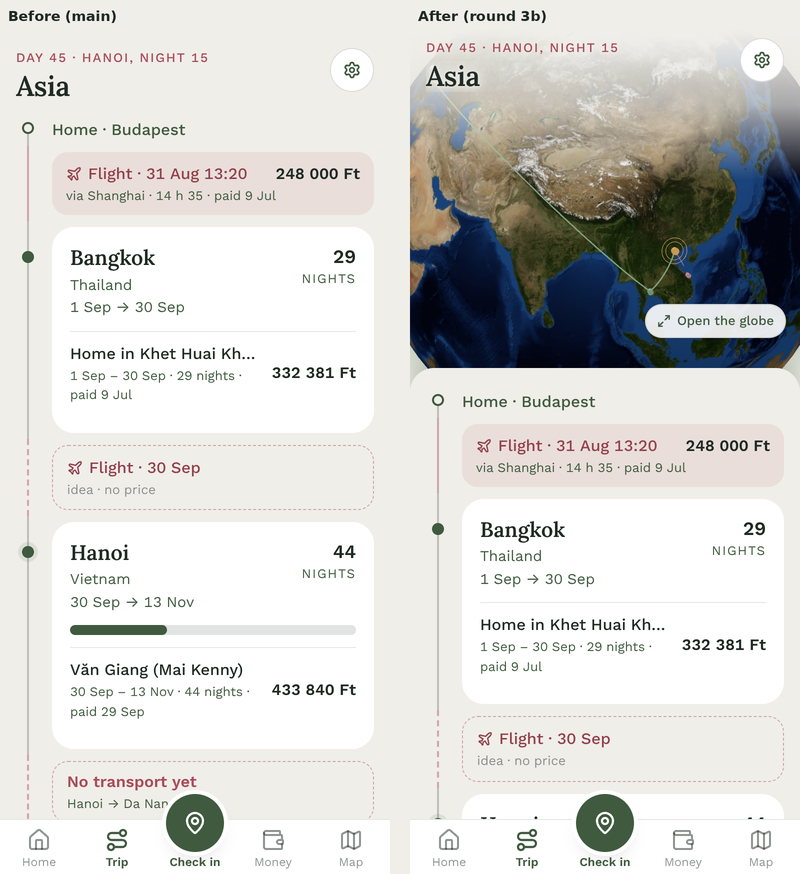
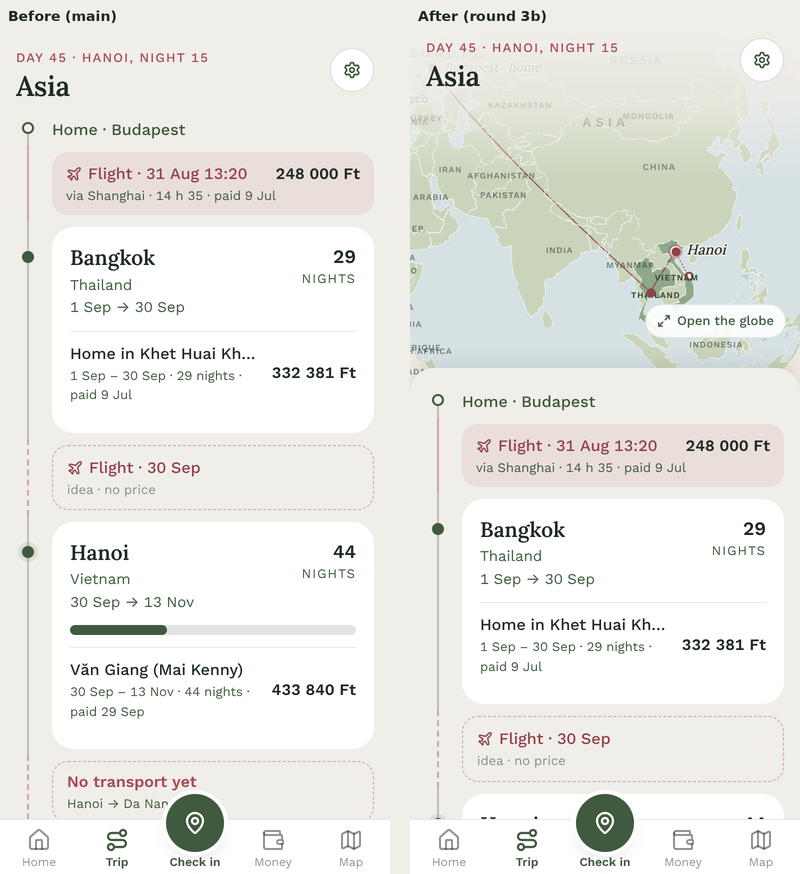
Round 3b: a bolder route; the notes for the globe's look
Claude-Session: https://claude.ai/code/session_01Y4cNLRyg5RPwirJJGrzXfV

Changed region(s): [[0.5, 0.0618, 1.0, 0.4325]]

diff --git a/product/src/components/trips/TripGlobe.tsx b/product/src/components/trips/TripGlobe.tsx
@@ -310,7 +310,7 @@ export default function TripGlobe({ route, transport, todayIso, interactive, pau
     l.pathsData([]).pathPoints('pts').pathPointLat((p) => (p as number[])[1]).pathPointLng((p) => (p as number[])[0])
       .pathPointAlt((d) => (path(d).kind === 'leg' ? 0.011 : 0.0055))
       .pathColor((d) => { const p = path(d); return p.kind === 'coast' ? t().shore : p.leg.upcoming ? t().route + 'd9' : t().route })
-      .pathStroke((d) => { const p = path(d); return p.kind === 'coast' ? 0.8 : p.leg.ground ? 1.3 : 1.0 })
+      .pathStroke((d) => { const p = path(d); return p.kind === 'coast' ? 0.8 : p.leg.ground ? 1.7 : 1.4 })
       .pathDashLength((d) => { const p = path(d); return p.kind === 'coast' ? 1 : p.leg.ground ? 0.012 : p.leg.upcoming ? 0.07 : 1 })
       .pathDashGap((d) => { const p = path(d); return p.kind === 'coast' ? 0 : p.leg.ground ? 0.045 : p.leg.upcoming ? 0.055 : 0 })
       .pathResolution(1).pathTransitionDuration(0)

diff --git a/docs/NOTES.md b/docs/NOTES.md
@@ -22,12 +22,19 @@ Patrik's 10 Oct decision A (#166, #63), on the web as the phone's `GlobeScaffold
   demand"). Tapping a stop on the open globe folds the globe and scrolls to the stop's card.
 - **Once the timeline covers the globe,** a slim bar with the journey's name and a "Globe"
   button takes its place, and the globe stops drawing (`pauseAnimation`).
-- **The globe itself** is new and lean: `components/trips/TripGlobe.tsx` (globe.gl), home and the
-  in-plan stops the catalogue can place, a leg between each pair, the stop you are in ringed;
-  travelled hunter, upcoming dashed mauve, now amber, home white (FollowGlobe's language). The
-  camera rules (`lib/map/journeyCamera.ts`: the journey's middle through the sphere, the
-  height from its spread, a leg's flight time, the card's words) are tested. Night shading:
-  the day texture, as FollowGlobe; the phone's terminator is not drawn.
+- **The globe itself** is new and lean, `components/trips/TripGlobe.tsx` (globe.gl, the web's
+  engine), drawn as the phone's GlobeView draws it (Petra, 14 Oct, with the phone's pictures:
+  the first cut had reused the Map page's satellite picture): a pale sea, sage land from the
+  country shapes (`/vendor/countries.geojson`) with a white rim along the coasts and faint
+  borders, your journey's countries a shade darker, continent names far out and country names
+  closer in (sized by how big the country is on screen, your journey's first), the route in
+  `--ac2Deep` along the great circle (dashed where still ahead, dotted on the ground), the stops
+  as dots with their names in the serif italic (the stop you are in ringed and breathing), home
+  a small square, a warm rim around the globe; light and dark from the phone's `Tokens.swift`
+  (`lib/map/globeTheme.ts`). The camera rules and the names' rules are tested
+  (`lib/map/journeyCamera.ts`, `lib/map/globeNames.ts`). Not drawn: the night side, the seas'
+  and regions' names (the phone has them in `globe-names.json`), the plane of the replay, the
+  canvas halo under the route (as a tube it swallowed the line).
 - **The Map tab is empty** (Patrik, 12 Oct, decision 2): "Nothing here yet", and one line,
   "The globe is on Trip now." The planner globe with its catalogue pins, the people layer (#9),
   the hazards and the country panels stays in `MapClient.tsx`, reachable in development at
@@ -40,8 +47,8 @@ Not on the web: the onboarding and Arrived replays that play by themselves (the 
 GlobePlay), haptics, and the follower's Trip with the globe (`/journeys/[trip]` keeps
 FollowGlobe). Pictures: `docs/web-ios-redesign/round3b-*.png`.
 
-iOS: nothing new; the web now reads as `TripGlobe.swift` does. One difference to know: the web's
-Replay button leaves the globe open and does not close it at the end, as the phone's does too.
+iOS: nothing new; the web now reads as `TripGlobe.swift` and `GlobeView.swift` do. The seas' names
+and the night side stay the phone's alone for now.
 
 ### LIVE — round 3a of the redesign, Trip's timeline as on the phone (Petra, 14 Oct; #192)
 

diff --git a/docs/WEB-IOS-REDESIGN.md b/docs/WEB-IOS-REDESIGN.md
@@ -180,8 +180,9 @@ The six questions this file first ended with, and the answers.
 
 - 14 Oct: round 3b built, the globe on top of Trip as the phone's GlobeScaffold (the header over
   the globe, the timeline as a sheet, the open globe with World/Journey and Replay, the card at
-  the bottom, the compact bar), with a new lean route globe (`TripGlobe.tsx`); the Map tab
-  empty, the planner globe kept for development. Pictures in `docs/web-ios-redesign/round3b-*`.
+  the bottom, the compact bar), with a new lean route globe (`TripGlobe.tsx`) in the phone's
+  look (Petra, 14 Oct: the first cut had the Map page's satellite picture); the Map tab empty,
+  the planner globe kept for development. Pictures in `docs/web-ios-redesign/round3b-*`.
 - 14 Oct: round 3a live (#192, Petra's test on the phone), Trip's timeline as on the phone (the stop card, the dashed
   "+ Add stop", "Onward" / "Journey ends", the "Where next?" card, the no-stops card with
   "Or start with the flight there"); the "In the plan" switch moved from the card into the

diff --git a/CLAUDE.md b/CLAUDE.md
@@ -168,8 +168,9 @@ Petra is new to software work; Patrik is not. The product conventions are in
   Trip's timeline in the phone's look (the stop card without its tick box, "In the plan" in the
   stop's form, "Onward" / "Journey ends", the "Where next?" card, the no-stops card with the
   flight there first), is live since 14 Oct (#192, Petra's test). 3b, the globe on top of Trip
-  (`TripGlobeScaffold.tsx`, a lean `TripGlobe.tsx`; the Map tab empty, the planner globe kept in
-  `MapClient.tsx` for development), was built on 14 Oct. The source of the look is `feat/ios-foundation`,
+  (`TripGlobeScaffold.tsx`, a lean `TripGlobe.tsx` drawn in the phone's pale look from the country
+  shapes; the Map tab empty, the planner globe kept in `MapClient.tsx` for development), was built
+  on 14 Oct. The source of the look is `feat/ios-foundation`,
   not the `ios/` on `main`.
 - Supabase jobs that need Patrik's machine (the CLI) wait in NOTES under
   "NEXT MACHINE SESSION": the subscription-alerts deploy check, the
